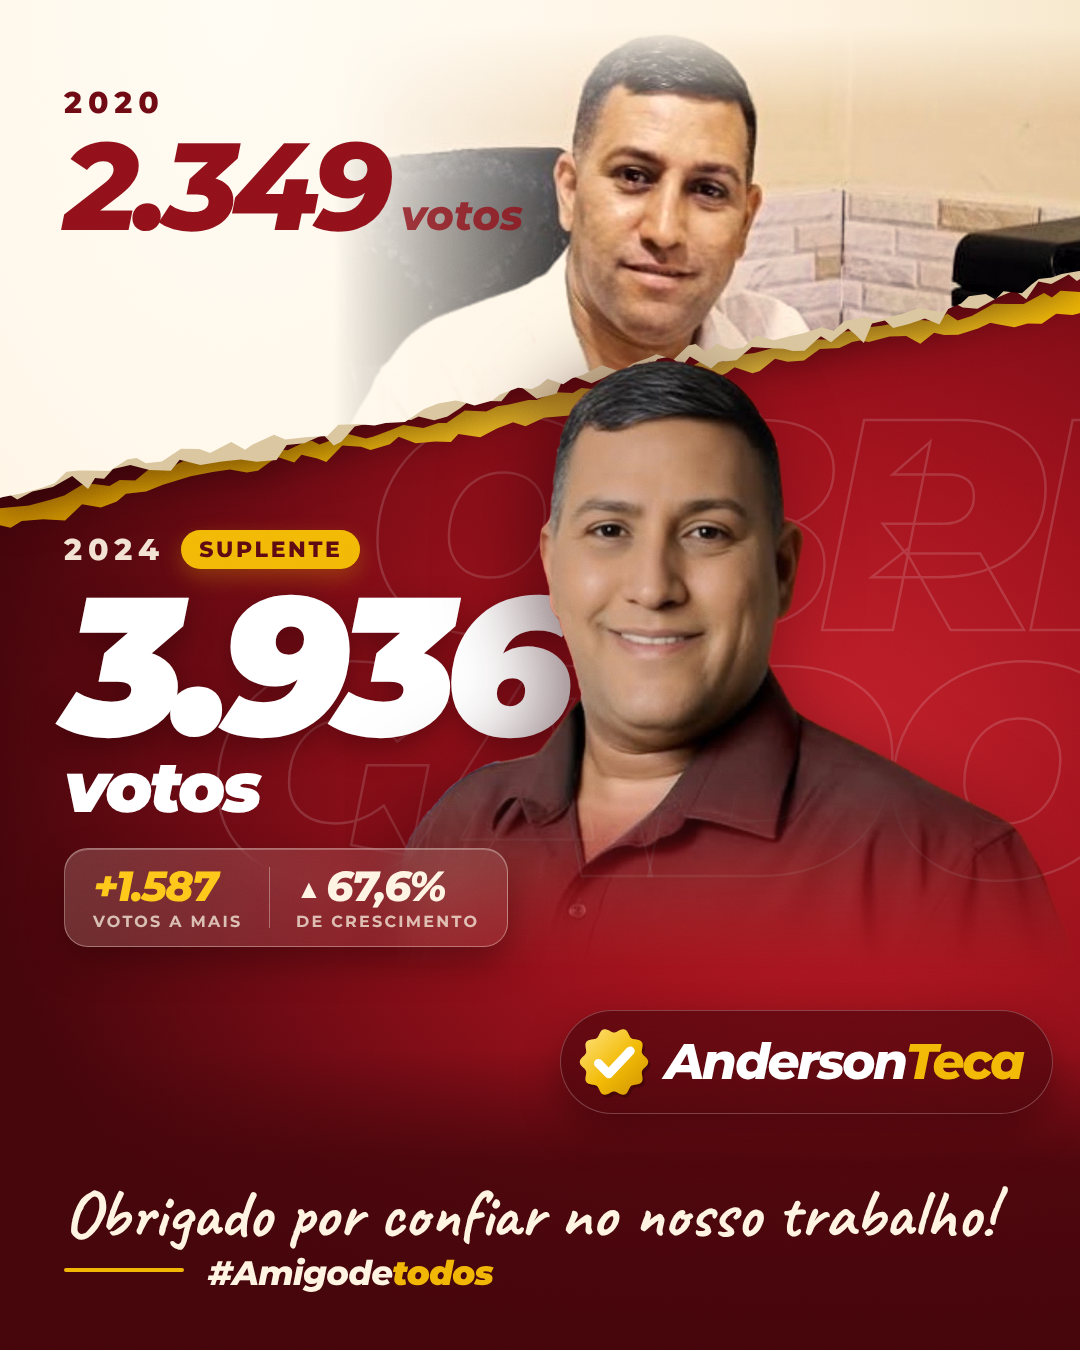
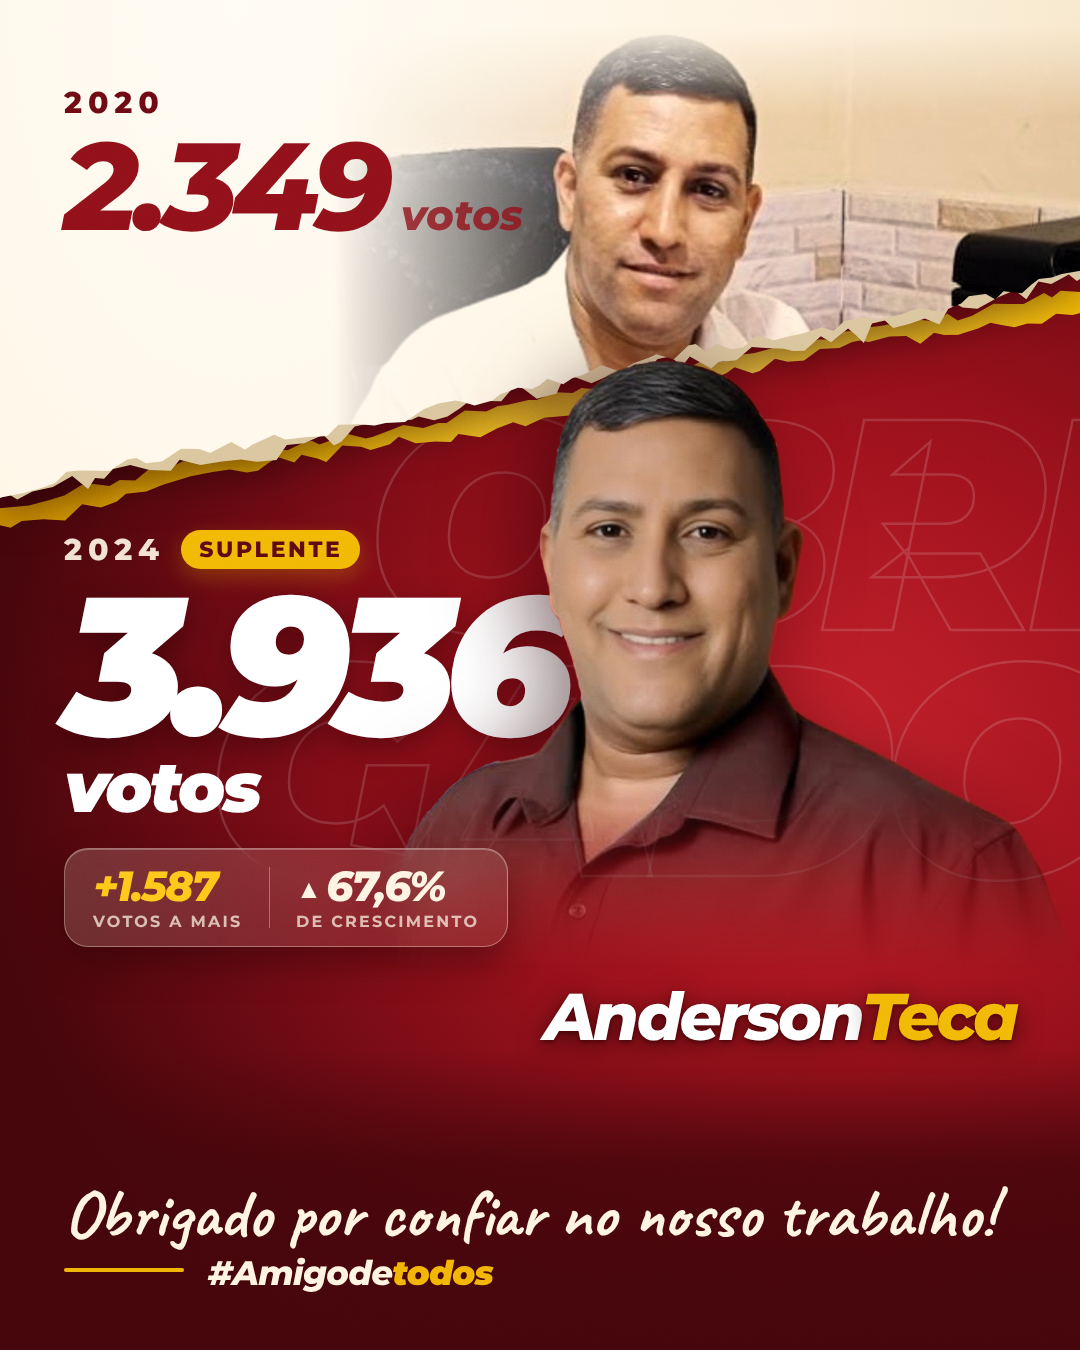
Anderson Teca v8: nome maior, sem selo de verificado e sem card
Claude-Session: https://claude.ai/code/session_01Y4FBjftjKYjL6a6dxycj4C

Changed region(s): [[0.4889, 0.7156, 0.9778, 0.84]]

diff --git a/artes-clientes/anderson-teca/arte.html b/artes-clientes/anderson-teca/arte.html
@@ -43,8 +43,8 @@
   #stat .k.g { color:#FFC61A } #stat .k.w { color:#FFF4E2 } #stat .k small { font-size:.62em; margin-right:6px; vertical-align:.12em }
   #stat .l { font:700 16px/1 'Montserrat'; letter-spacing:.14em; text-transform:uppercase; color:rgba(255,244,226,.72); white-space:nowrap }
   #stat .d { width:1.5px; align-self:stretch; margin:2px 26px; background:rgba(255,244,226,.34) }
-  #logo { z-index:5; display:flex; align-items:center; gap:14px; padding:14px 30px 14px 16px; border-radius:60px; background:rgba(66,5,11,.62); backdrop-filter:blur(14px); border:1.5px solid rgba(255,255,255,.22); box-shadow:0 18px 40px rgba(30,0,4,.45) }
-  #logo .wm { font:italic 800 50px/1 'Montserrat'; letter-spacing:-.045em; color:#fff; white-space:nowrap }
+  #logo { z-index:5; display:block; text-shadow:0 6px 26px rgba(30,0,4,.7), 0 2px 4px rgba(30,0,4,.5) }
+  #logo .wm { font:italic 800 var(--lfs,50px)/1 'Montserrat'; letter-spacing:-.045em; color:#fff; white-space:nowrap }
   #logo .wm b { color:var(--gold); font-weight:800 }
   #foot { z-index:4; left:0; width:1080px; background:linear-gradient(180deg,rgba(66,5,11,0),rgba(66,5,11,.85) 38%,#42050B) }
   #thanks { z-index:6; left:64px; right:64px; font:700 68px/1 'Caveat'; color:var(--cream); white-space:nowrap }
@@ -67,15 +67,15 @@
     <div class="n24"><div class="n">3.936</div><div class="v">votos</div></div>
   </div>
   <div id="stat"><div class="c"><div class="k g">+1.587</div><div class="l">votos a mais</div></div><div class="d"></div><div class="c"><div class="k w"><small>▲</small>67,6%</div><div class="l">de crescimento</div></div></div>
-  <div class="abs" id="logo"><svg width="74" height="74" viewBox="-50 -50 100 100" id="check"></svg><div class="wm">Anderson<b>Teca</b></div></div>
+  <div class="abs" id="logo"><div class="wm">Anderson<b>Teca</b></div></div>
   <div class="abs" id="thanks">Obrigado por confiar no nosso trabalho!</div>
   <div class="abs" id="rule"></div>
   <div class="abs" id="tag">#Amigode<b>todos</b></div>
 </div>
 <script>
 const F = new URLSearchParams(location.search).get('f') || 'feed'
-const L = { feed:  { H:1350, cut:[500, 270],  ghost:400, photo:[205, 26, 920], top:[88],  col:530, me:[345, 262, 860],  logo:[560, 1010], foot:[1050, 300], thanks:1180, rule:1268, tag:1256 },
-            story: { H:1920, cut:[720, 470],  ghost:760, photo:[120, 70, 1010],  top:[290], col:752, me:[276, 418, 1100], logo:[540, 1420], foot:[1480, 440], thanks:1630, rule:1720, tag:1708 } }[F]
+const L = { feed:  { H:1350, cut:[500, 270],  ghost:400, photo:[205, 26, 920], top:[88],  col:530, me:[345, 262, 860],  logo:[0, 984], logoFs:66, foot:[1050, 300], thanks:1180, rule:1268, tag:1256 },
+            story: { H:1920, cut:[720, 470],  ghost:760, photo:[120, 70, 1010],  top:[290], col:752, me:[276, 418, 1100], logo:[0, 1372], logoFs:92, foot:[1480, 440], thanks:1630, rule:1720, tag:1708 } }[F]
 const $ = id => document.getElementById(id), art = $('art')
 const H = L.H; art.style.height = H + 'px'; document.body.style.height = H + 'px'
 for (const id of ['goldW', 'paperW']) $(id).style.height = H + 'px'
@@ -97,13 +97,8 @@ $('top').style.top = L.top[0] + 'px'
 // 2024 e foto atual
 $('col').style.top = L.col + 'px'
 { const [l, t, w] = L.me, m = $('me'); m.style.left = l + 'px'; m.style.top = t + 'px'; m.style.width = w + 'px' }
-$('logo').style.left = L.logo[0] + 'px'; $('logo').style.top = L.logo[1] + 'px'
+$('logo').style.right = '64px'; $('logo').style.top = L.logo[1] + 'px'; $('logo').style.setProperty('--lfs', L.logoFs + 'px')
 $('foot').style.top = L.foot[0] + 'px'; $('foot').style.height = L.foot[1] + 'px'
 $('thanks').style.top = L.thanks + 'px'; $('rule').style.top = L.rule + 'px'; $('tag').style.top = L.tag + 'px'
-// selo de check da campanha
-const scallop = (R, amp, n) => { let d = ''; for (let i = 0; i <= 240; i++) { const a = i / 240 * Math.PI * 2, r = R * (1 + amp * Math.cos(n * a)); d += (i ? 'L' : 'M') + (r * Math.cos(a)).toFixed(2) + ' ' + (r * Math.sin(a)).toFixed(2) } return d + 'Z' }
-$('check').innerHTML = `<defs><linearGradient id="g1" x1="0" y1="0" x2="1" y2="1"><stop offset="0" stop-color="#FFE27A"/><stop offset=".55" stop-color="#F2B705"/><stop offset="1" stop-color="#C98A00"/></linearGradient></defs>
-  <path d="${scallop(43, .075, 10)}" fill="#2a0306" opacity=".45" transform="translate(3 4)"/><path d="${scallop(43, .075, 10)}" fill="url(#g1)"/>
-  <path d="M-21 2 L-7 16 L22 -15" fill="none" stroke="#fff" stroke-width="12" stroke-linecap="round" stroke-linejoin="round"/>`
 window.ready = document.fonts.ready.then(() => { const r = $('col').getBoundingClientRect(), t0 = art.getBoundingClientRect().top; $('stat').style.top = (r.bottom - t0 + 26) + 'px'; return Promise.all([$('me').decode(), $('p20img').decode()]) })
 </script></body></html>
